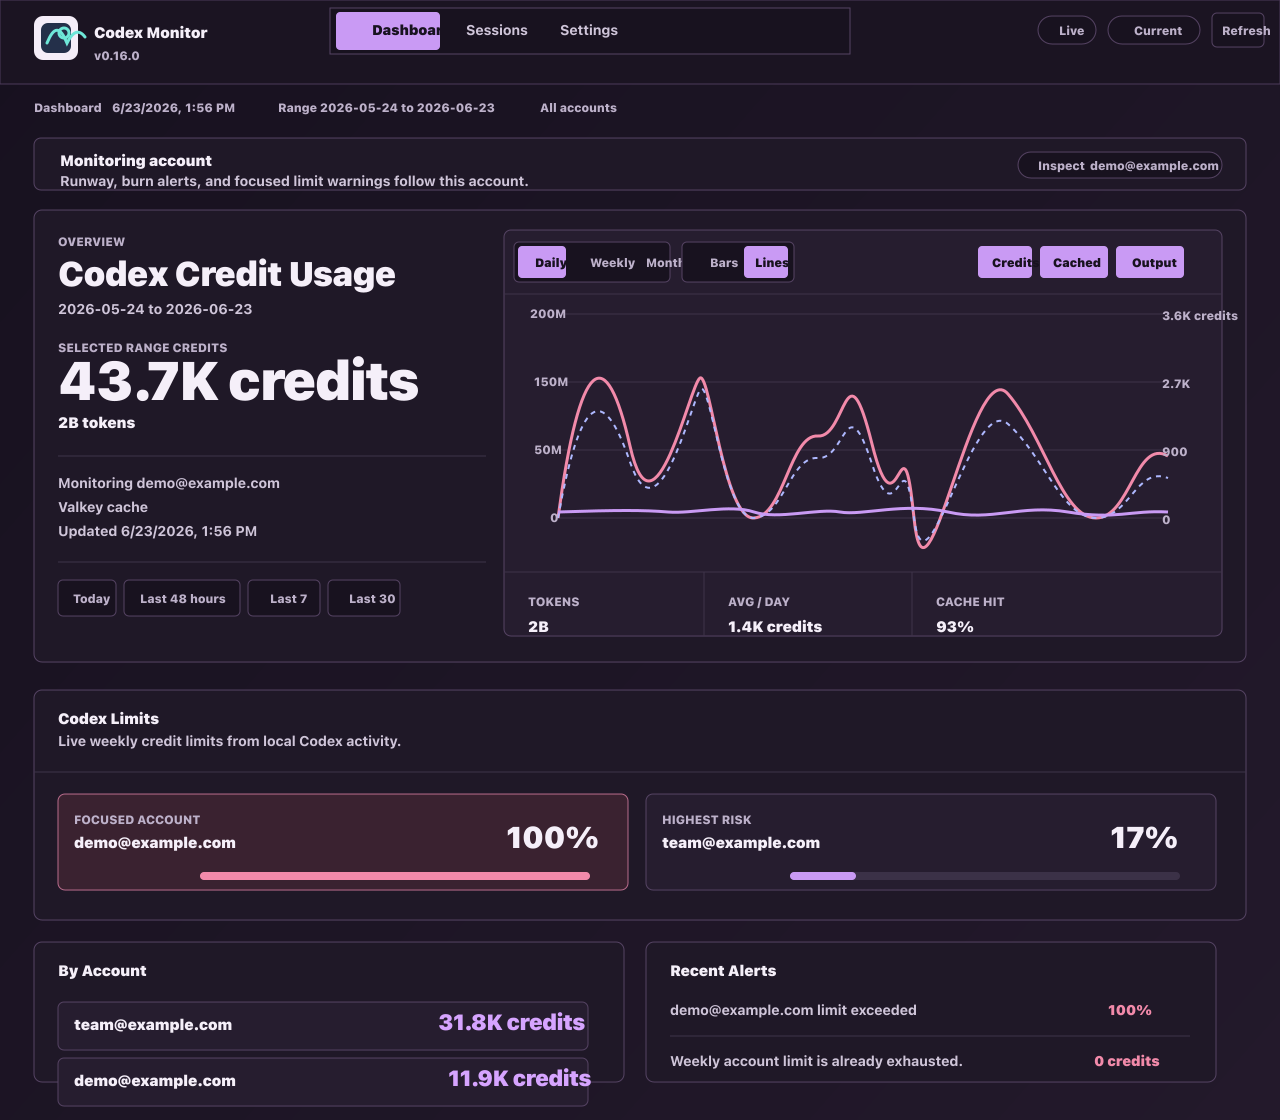
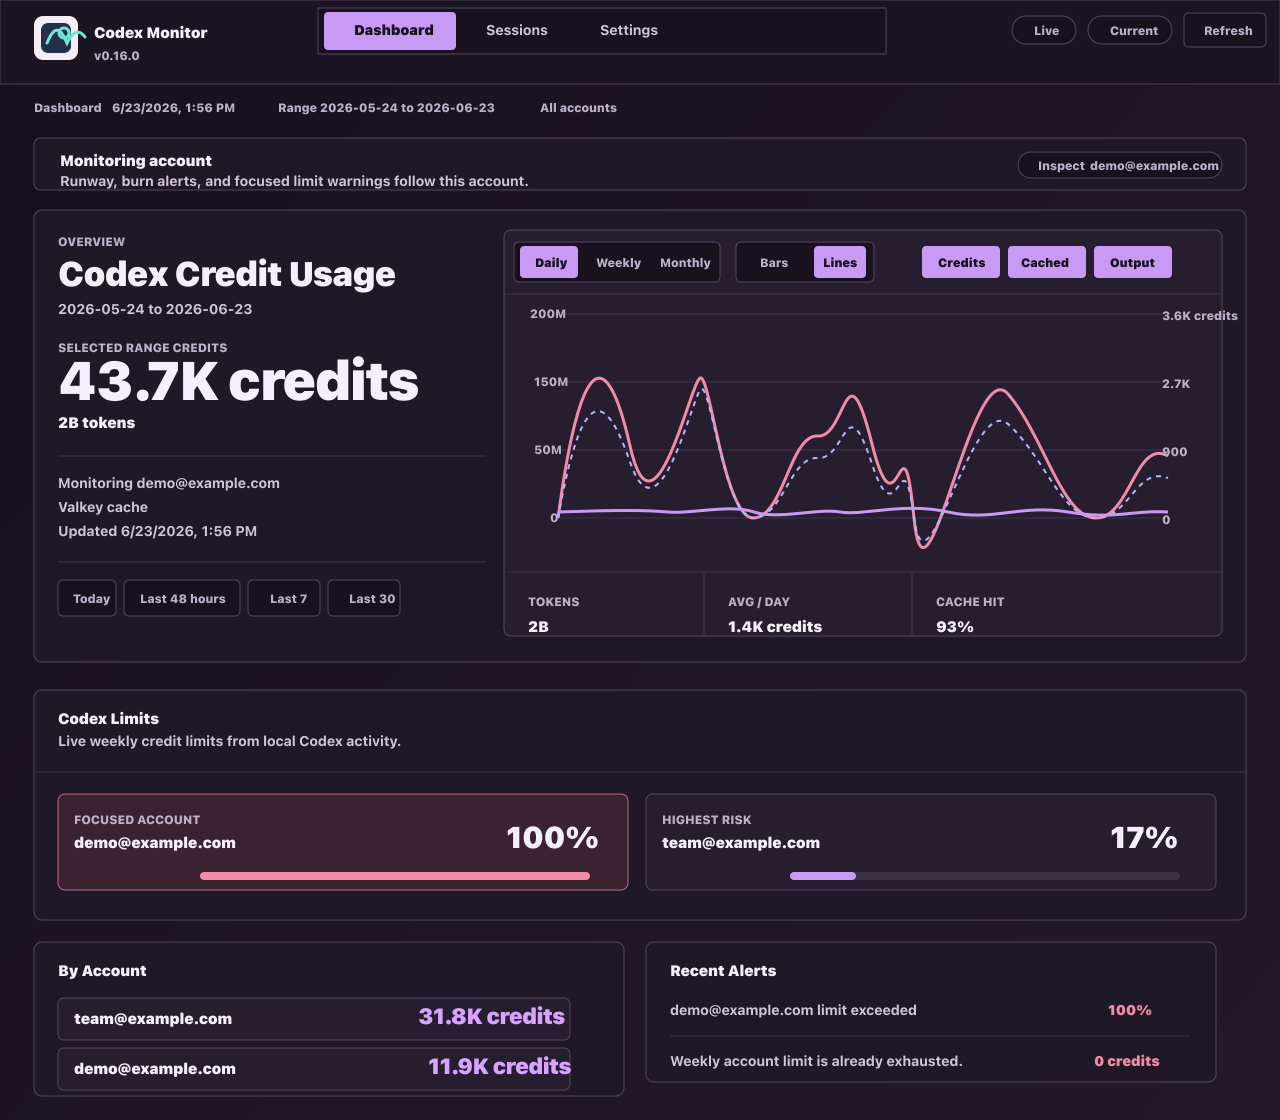
Fix dashboard preview clipping

diff --git a/CHANGELOG.md b/CHANGELOG.md
@@ -2,6 +2,10 @@
 
 ## Unreleased
 
+### Fixed
+
+- Adjusted the dashboard preview asset so header controls, chart toggles, and account cards fit at README thumbnail scale.
+
 ## v0.16.0 - 2026-06-23
 
 ### Initial Release